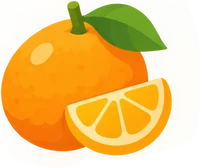
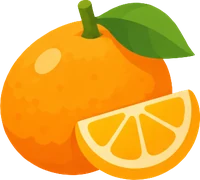
치복 타운 #20: 사냥터 보스 화면 등장·타이머 · 빙고 화면 크게 · 작물 자랑 · 확대 4배 · 작물 그림 번짐 지움

diff --git a/game.html b/game.html
@@ -237,7 +237,7 @@ h3.sub { margin: 14px 0 6px; font-size: calc(15px * var(--fs)); }
 .legendpop .fpic.big { animation: lpBob 1.6s ease-in-out infinite; filter: drop-shadow(0 0 18px rgba(255,190,60,.85)); } @keyframes lpBob { 50% { transform: translateY(-8px) rotate(-3deg); } }
 .legendpop .btn { margin-top: 10px; min-width: 160px; }
 #modal .legendpop h3, #modal .legendpop p { text-align: center; justify-content: center; width: 100%; } #modal .legendpop .fpic.big { display: block; margin-left: auto; margin-right: auto; } #modal .legendpop .btn { display: block; margin-left: auto; margin-right: auto; }
-#fbagList, #cbagList { grid-template-columns: repeat(auto-fill, minmax(70px, 1fr)); gap: 5px; } #fbagList .fcard, #cbagList .fcard { min-height: 0; cursor: pointer; padding: 6px 2px 4px; } #fbagList .fpic, #cbagList .fpic { width: 48px; height: 34px; } #cbagList .fcard { cursor: default; }
+#fbagList, #cbagList { grid-template-columns: repeat(auto-fill, minmax(70px, 1fr)); gap: 5px; } #fbagList .fcard, #cbagList .fcard { min-height: 0; cursor: pointer; padding: 6px 2px 4px; } #fbagList .fpic, #cbagList .fpic { width: 48px; height: 34px; }
 /* 캐릭터창 칭호 줄: 뱃지 + 칭호 가운데 (2026-11-20) */
 .meTitleRow { justify-content: center; align-items: center; gap: 6px; } .meBadge { width: 30px; height: 30px; cursor: pointer; flex: none; } .meBadge[hidden] { display: none; }
 /* 도감 센터 (2026-11-20) */
@@ -905,6 +905,31 @@ body.bingoing .raidbox { width: min(220px, calc(40% - 12px)); }
   .bg-board { grid-template-columns: repeat(5, 1fr); gap: 4px; }
   .bg-cell { height: min(11.5vw, 50px); font-size: 18px; }
   .bg-go { width: auto; height: 46px; }
+}
+/* 2026-11-21 빙고 UI 크게 · 가운데로 모음 (사용자 요청: 배경·캐릭터가 가려져도 괜찮음) */
+.bgpanel { display: flex; flex-direction: column; align-items: center; justify-content: center; gap: 16px; padding: 70px 14px 16px; background: rgba(18,12,8,.28); }
+.bgpanel > .bg-calls, .bgpanel > .bg-me { position: static; transform: none; }
+.bgpanel > .bg-calls { width: min(820px, calc(100% - 540px)); max-width: none; min-width: 520px; min-height: 112px; padding: 12px 20px; gap: 16px; border-width: 3px; border-radius: 22px; }
+.bgpanel .bgc-wait { font-size: 21px; }
+.bgpanel .bgc-new { width: 92px; height: 92px; border-width: 4px; } .bgpanel .bgc-new b { font-size: 46px; } .bgpanel .bgc-new small { top: -12px; font-size: 13px; padding: 1px 8px; }
+.bgpanel .bgc-old { gap: 7px; } .bgpanel .bgc-old span { width: 46px; height: 46px; font-size: 20px; border-width: 2.5px; }
+.bgpanel > .bg-me { padding: 16px; gap: 16px; border-width: 3px; border-radius: 24px; }
+.bgpanel .bg-board { grid-template-columns: repeat(5, min(10vh, 96px)); gap: 8px; }
+.bgpanel .bg-cell { height: min(10vh, 96px); font-size: min(4.6vh, 40px); border-radius: 14px; border-width: 2.5px; }
+.bgpanel .bg-cell.on::after { inset: 9px; border-width: 5px; }
+.bgpanel .bg-go { width: 150px; font-size: 34px; border-radius: 18px; } .bgpanel .bg-go.done { font-size: 24px; }
+.bgpanel > .bg-rank { width: 260px; max-height: calc(100% - 80px); top: 70px; padding: 10px 12px; }
+.bgpanel .bg-rank h4 { font-size: 18px; } .bgpanel .bg-rank li { font-size: 16px; padding: 6px 8px; grid-template-columns: 40px 1fr auto; } .bgpanel .bg-rank p { font-size: 14.5px; }
+@media (max-width: 760px) {
+  .bgpanel { justify-content: flex-start; gap: 10px; padding: var(--bgtop, 160px) 8px 100px; background: rgba(18,12,8,.22); }   /* 아래 100px = 아래 정보창 */
+  .bgpanel > .bg-calls { width: 100%; min-width: 0; min-height: 0; padding: 8px 12px; gap: 10px; border-radius: 16px; }
+  .bgpanel .bgc-new { width: 64px; height: 64px; } .bgpanel .bgc-new b { font-size: 31px; }
+  .bgpanel .bgc-old span { width: 34px; height: 34px; font-size: 15px; } .bgpanel .bgc-old span:nth-child(n+6) { display: none; }
+  .bgpanel > .bg-me { width: 100%; flex-direction: column; padding: 10px; gap: 10px; margin-top: auto; margin-bottom: auto; }
+  .bgpanel .bg-board { grid-template-columns: repeat(5, 1fr); gap: 6px; }
+  .bgpanel .bg-cell { height: min(16vw, 13vh, 76px); font-size: min(7.5vw, 30px); }
+  .bgpanel .bg-go { width: auto; height: 62px; font-size: 28px; }
+  .bgpanel > .bg-rank { top: 62px; width: min(170px, 44%); } .bgpanel .bg-rank h4 { font-size: 14px; } .bgpanel .bg-rank li { font-size: 13.5px; grid-template-columns: 30px 1fr auto; }
 }
 .raidbox { position: absolute; top: 62px; left: 12px; width: min(250px, calc(58% - 12px)); background: rgba(38,24,24,.94); color: #fff; border: 2px solid var(--ink); border-radius: 14px; padding: 8px 12px; z-index: 6; box-shadow: var(--shadow); }
 .raidbox .rb-top { display: flex; flex-wrap: wrap; justify-content: space-between; align-items: center; gap: 6px 8px; font-size: calc(14px * var(--fs)); }
@@ -4842,9 +4867,28 @@ async function huntDie() {
   try { took(await api('/api/hunt/leave', { died: true })); }
   catch (x) { toast(x.message); if (HT) { HT.dying = false; me.hp = 1; } }
 }
-async function huntSync() {
-  if (SV.on || !HT || HT.dying || huntBusy || S.away || document.visibilityState === 'hidden') return;
+async function huntSync(force) {
+  if (SV.on || !HT || HT.dying || huntBusy || S.away || (!force && document.visibilityState === 'hidden')) return;
   try { took(await api('/api/hunt/sync', {})); } catch (x) { if (x.status === 401) location.reload(); }
+}
+// 2026-11-21 사냥터 보스를 화면에 등장시킴. 이기고 지는 건 서버 계산(hunt.js) 그대로이고, 화면 보스는 그 결과를 보여 주는 역할
+// 체력은 내 초당 피해 약 10초어치로 줄여서 곧 쓰러짐. 서버가 '피함'이면 사라지고, '이김'이면 끝까지 싸워 쓰러뜨림
+function bossAppear() {
+  if (!HT || HT.mons.some(m => m.boss && !m.dead) || performance.now() - (HT.bossT || -1e9) < 30e3) return;   // 30초 안에 또 부르면 무시 (서버 정산이 조금 늦어도 두 번 안 나오게)
+  HT.bossT = performance.now();
+  spawnMon(true); const m = HT.mons[HT.mons.length - 1], hp = Math.max(1, Math.min(m.d.hp, Math.round(raidDps(derive()) * 10)));
+  m.d = { ...m.d, hp }; m.hp = hp; m.aggro = true; m.wait = 0;
+  const x = Math.max(2.5 * T, Math.min((HW - 2.5) * T, me.x + (me.dir < 0 ? -1 : 1) * 4 * T)), y = Math.max(2.5 * T, Math.min((HH - 2.5) * T, me.y));
+  m.x = m.wx = x; m.y = m.wy = y; HT.target = m;
+  fxRing(x, y - 20, '#ffb020', 80, .6); fxBurst(x, y - 20, '#ffd45a', 30, 260, 4); fxShake(10); sfx('boom');
+  floatText(x, y - 70 * (m.d.s || 1), `👑 ${m.d.n} 등장!`, '#ffd45a', 20, 1.6, true); toast(`👑 보스 ${m.d.n} 등장!`);
+}
+function bossResult(h) {   // 서버 정산 결과를 화면 보스에 반영
+  const m = HT?.mons.find(o => o.boss && !o.dead); if (!m) return;
+  if (h.bossSkip?.length && !h.bosses?.length) {   // 너무 강해서 피함 → 보스가 연기와 함께 사라짐
+    fxBurst(m.x, m.y - 20, '#9aa3ad', 26, 180, 4, -40); floatText(m.x, m.y - 60, '💨 피했어요', '#cfd6de', 17, 1.3, true);
+    HT.mons.splice(HT.mons.indexOf(m), 1); if (HT.target === m) HT.target = null;
+  } else if (h.bosses?.length) { m.won = h.bosses[0]; return true; }   // 이김 → 화면 보스를 쓰러뜨릴 때 알림
 }
 function spawnMon(boss) {
   const d = boss ? HT.f.boss : MONS[pick(HT.f.mons)];
@@ -4976,7 +5020,7 @@ function updateHunt(dt) {
   // 물약 자동
   HT.potCD -= dt; if (me.hp <= D.maxHp * me.potAt / 100 && HT.potCD <= 0) usePotion(D);
   for (const f of HT.floats) f.t += dt; HT.floats = HT.floats.filter(f => f.t < f.life);
-  if (me.hp <= 0 && !HT.dying) huntDie();
+  if (me.hp <= 0 && !HT.dying) { if (HT.mons.some(m => m.boss && !m.dead)) me.hp = 1; else huntDie(); }   // 2026-11-21 화면 보스와 싸우는 동안은 화면에서 쓰러지지 않음 (진짜 결과는 서버)
 }
 // 근접: 앞으로 살짝 튀어나가며 베기
 function hitMon(m, D) { me.swing = .18; me.lunge = .12; const h = rollHit(D, m); applyHit(m, h, D, 'melee'); cleaveAround(m, h.dmg * (D.cleave || 0), D); }
@@ -5294,11 +5338,12 @@ function hitMe(m, D) {
 }
 function killMon(m, D) {   // 보여 주기용: 진짜 경험치·골드·장비는 서버가 계산해서 30초마다 알려 줌
   m.dead = true; m.deadT = 0; m.hp = 0; m.g = null; if (HT.target === m) HT.target = null;
+  if (m.boss && m.won) { toast(`👑 보스 ${m.won}를 쓰러뜨렸어요!`); sysMsg(`👑 보스 ${m.won} 처치!`); }
   const cy = m.y - 18 * m.d.s;   // 쓰러질 때 펑! (몸 색 조각 + 금빛 반짝이)
   fxBurst(m.x, cy, m.d.c, m.boss ? 40 : 18, m.boss ? 320 : 230, m.boss ? 5 : 4); fxBurst(m.x, cy, '#ffe28a', m.boss ? 20 : 8, 160, 2.4, 120);
   sfx(m.boss ? 'boom' : 'kill'); fxRing(m.x, cy, '#ffffff', m.boss ? 70 : 38, .35); fxShake(m.boss ? 12 : 4.5); HT.freeze = Math.max(HT.freeze, m.boss ? .2 : .07);
   const e = Math.max(1, Math.round(m.d.exp * expPen(me.lv, m.d.lv)));
-  HT.loc.kills++; HT.loc.exp += e; HT.loc.gold += Math.max(1, Math.round(m.d.gold * (1 + D.goldB / 100))); syncBars();
+  if (!m.boss) { HT.loc.kills++; HT.loc.exp += e; HT.loc.gold += Math.max(1, Math.round(m.d.gold * (1 + D.goldB / 100))); syncBars(); }
   floatText(m.x, m.y - 14, `+${e} EXP`, '#ffe9a8', 13, 1.3);
 }
 const expPen = (lv, mlv) => { const d = lv - mlv; return d >= 10 ? Math.max(.2, 1 - (d - 9) * .1) : 1; };
@@ -5444,8 +5489,9 @@ cv.addEventListener('wheel', e => { e.preventDefault(); setZoom(S.zoom * (e.delt
 const zoomKey = () => (innerWidth <= 760 ? 'cbt-zoom-m' : 'cbt-zoom-pc') + (HT ? '-hunt' : '');
 let zoomT = null;
 const raidFit = () => Math.min(W / RW(), H / RH());   // 레이드 맵 전체가 화면에 들어오는 배율
-function setZoom(z) { S.zoom = Math.max(RD ? Math.min(.7, raidFit()) : .7, Math.min(2.6, z)); clearTimeout(zoomT); if (RD) return; zoomT = setTimeout(() => { try { localStorage.setItem(zoomKey(), S.zoom.toFixed(2)); } catch {} }, 300); }
-function loadZoom() { clearTimeout(zoomT); let z = 0; try { z = +localStorage.getItem(zoomKey()); } catch {} S.zoom = z ? Math.max(.7, Math.min(2.6, z)) : HT && innerWidth <= 760 ? 1.15 : 1.6; }
+const ZOOM_MAX = 4;   // 2026-11-21 가장 가까이 2.6 → 4 (사용자 요청)
+function setZoom(z) { S.zoom = Math.max(RD ? Math.min(.7, raidFit()) : .7, Math.min(ZOOM_MAX, z)); clearTimeout(zoomT); if (RD) return; zoomT = setTimeout(() => { try { localStorage.setItem(zoomKey(), S.zoom.toFixed(2)); } catch {} }, 300); }
+function loadZoom() { clearTimeout(zoomT); let z = 0; try { z = +localStorage.getItem(zoomKey()); } catch {} S.zoom = z ? Math.max(.7, Math.min(ZOOM_MAX, z)) : HT && innerWidth <= 760 ? 1.15 : 1.6; }
 loadZoom();
 $('#zIn').onclick = () => setZoom(S.zoom * 1.2); $('#zOut').onclick = () => setZoom(S.zoom / 1.2);
 
@@ -7100,7 +7146,8 @@ function syncBars() {
     $('#hbTime').textContent = `⏱ ${sec >= 3600 ? Math.floor(sec / 3600) + ':' : ''}${String(Math.floor(sec % 3600 / 60)).padStart(2, '0')}:${String(sec % 60).padStart(2, '0')}`;
     const L = HT.loc;   // 서버 정산(30초마다) 뒤에 화면에서 잡은 만큼 더해서 보여 줌
     $('#hbKills').textContent = (v.kills + L.kills).toLocaleString(); $('#hbExp').textContent = `+${(v.exp + L.exp).toLocaleString()}`; $('#hbGold').textContent = `+${(v.gold + L.gold).toLocaleString()}`; $('#hbDrops').textContent = v.drops;
-    $('#hbBoss').textContent = `👑 보스까지 ${Math.floor(b / 60)}:${String(b % 60).padStart(2, '0')}`;
+    $('#hbBoss').textContent = b ? `👑 보스까지 ${Math.floor(b / 60)}:${String(b % 60).padStart(2, '0')}` : `👑 보스와 싸우는 중!`;
+    if (!b && !HT.bossCall && !HT.dying) { HT.bossCall = 1; bossAppear(); setTimeout(() => huntSync(true), 1200); }   // 2026-11-21 보스 시간이 되면 바로 화면에 보스 + 서버 정산
     { const ps = `${me.pots.s}|${me.pots.l}|${me.pots.xl}`, el = $('#hbPots'); if (el.dataset.sig !== ps) { el.dataset.sig = ps; el.innerHTML = [['🥤', me.pots.s], ['🧋', me.pots.l], ['🍹', me.pots.xl]].map(([i, n]) => `<i class="${n ? '' : 'no'}">${i} ${n}</i>`).join(''); iconize(el); } }
   }
 }
@@ -7232,6 +7279,19 @@ const savePotAt = e => { setPotAt(e.target.value); api('/api/pot-at', { v: me.po
 $('#potAt').onchange = savePotAt; $('#hbPot').onchange = savePotAt;
 $('#ptabs').addEventListener('click', e => { const p = e.target.closest('[data-p]')?.dataset.p; if (p) showTab(p); });
 function showTab(p) { $$('#ptabs [data-p]').forEach(b => b.setAttribute('aria-selected', b.dataset.p === p)); $$('.panel-body > .pane').forEach(el => (el.hidden = el.dataset.pane !== p)); }
+// 가방의 작물을 누르면 → 자랑하기 (2026-11-21, 물고기와 같음): 머리 위로 들어 보임 (움직이면 넣음). 다른 사람에게는 실시간 {t:'crop'}
+$('#cbagList').onclick = async e => {
+  const el = e.target.closest('[data-ck]'); if (!el) return;
+  const f = cropBagL().find(x => x.k === +el.dataset.ck), d = f && CROP_BY[f.id]; if (!d) return;
+  const big = isBigCrop(d.id, f.g);
+  if (!await ask(`${d.n} · ${cropW(f.g)} · ${FISH_GRADES[d.grade].n}
+팔면 🪙 ${fmtN(f.p)}`, { title: `${d.i} ${d.n}`, ok: '🙌 자랑하기', no: '닫기' })) return;
+  if (HT || me.room > 0) return toast('마을에서만 자랑할 수 있어요');
+  if (F.busy) return toast('🎣 낚시가 끝난 뒤에 자랑해 보세요');
+  me.path = []; me.moving = false; me.fz = null; me.brag = { crop: { id: d.id, i: d.i, n: d.n, grade: d.grade, g: f.g }, big, t0: performance.now() };
+  say(me, `${cropW(f.g)}짜리 ${d.n}${big ? '(대물)' : ''} 자랑!`, 3600); closePanel(); emote(me, '😎');
+  netSend({ t: 'crop', id: d.id, g: f.g, big });
+};
 // 가방의 물고기를 누르면 → 자랑하기 (2026-11-20): 그 자리에서 머리 위로 들어 보임 (움직이면 넣음)
 $('#fbagList').onclick = async e => {
   const el = e.target.closest('[data-fk]'); if (!el) return;
@@ -7340,7 +7400,8 @@ function took(j) {
   applyMe(j.me, !(HT && !j.me.char.hunt));   // 버튼 응답으로 순간이동하지 않게. 사냥에서 돌아올 때만 서버 위치로
   const h = j.hunt, srv = j.me.char.hunt;
   if (h && inTown) {
-    if (h.bosses?.length) { toast(`👑 보스 ${h.bosses[0]}를 쓰러뜨렸어요!`); sysMsg(`👑 보스 ${h.bosses.join(', ')} 처치!`); }
+    const bossLater = (h.bosses?.length || h.bossSkip?.length) && bossResult(h);
+    if (h.bosses?.length && !bossLater) { toast(`👑 보스 ${h.bosses[0]}를 쓰러뜨렸어요!`); sysMsg(`👑 보스 ${h.bosses.join(', ')} 처치!`); }
     if (h.bossSkip?.length) sysMsg(`👑 보스 ${h.bossSkip[0]}가 너무 강해서 피했어요 (손해 없음 · 현황판 '강한 보스도 싸우기'를 켜면 싸워요)`);
     for (const it of h.drops || []) if (it.g && ['epic', 'legend', 'myth'].includes(it.g)) { toast(`✨ ${GRADES[it.g].n} 장비! ${itemName(it)}`); sysMsg(`✨ ${GRADES[it.g].n} 장비 획득: ${itemName(it)}`); }
     if (HT && h.drops?.length) h.drops.slice(0, 3).forEach((it, i) => floatText(me.x + (i - 1) * 26, me.y - 84 - i * 10, `${itemIcon(it)} ${GRADES[it.g].n}`, it.g === 'normal' ? '#e6ebf2' : GRADES[it.g].c, 14, 1.8));
@@ -7360,7 +7421,7 @@ function took(j) {
   if (inTown) {
     if (srv && !HT) enterHunt(srv);
     else if (!srv && HT) exitHuntView();
-    else if (srv && HT) { HT.srv = srv; HT.loc = { kills: 0, exp: 0, gold: 0 }; HT.bossAt = performance.now() + (srv.boss - srv.t) * 1000; }
+    else if (srv && HT) { HT.srv = srv; HT.loc = { kills: 0, exp: 0, gold: 0 }; HT.bossAt = performance.now() + Math.max(1, srv.boss - srv.t) * 1000; HT.bossCall = 0; }
     for (const id of j.newTitles || []) { const x = titleOf(id); toast(`🏷 새 칭호 「${x.n}」!`); sysMsg(`🏷 새 칭호를 얻었어요: 「${x.n}」 · ${fxText(x.fx) || '효과 없음'} · 캐릭터창의 칭호를 눌러 달 수 있어요`); emote(me, '🎉'); }
     if (j.bonus) { toast(`🎁 오늘 첫 접속 보너스 🪙 ${j.bonus.toLocaleString()}`); sysMsg(`🎁 오늘 첫 접속 보너스: 골드 ${j.bonus.toLocaleString()} (레벨 × 20) · 📋 소식판에서 오늘 의뢰를 확인해 보세요!`); setTimeout(() => { if (modal.hidden && !guideOn()) openNews('daily'); }, 900); }
     if (j.daily?.length) tookDaily(j.daily);
@@ -8098,7 +8159,7 @@ function renderWallet() {
   $('#fbagList').innerHTML = fb.length ? [...fb].sort((a, b) => b.p - a.p).map(f => { const d = FISH_BY[f.id] || { n: '?', grade: 'normal' }; return `<button type="button" class="fcard" data-fk="${f.k}" style="--gc:${FISH_GRADES[d.grade].c}">${fishPic(d)}<b>${esc(d.n)}</b><small>${fmtCm(f.len)}</small><em>🪙 ${fmtN(f.p)}</em></button>`; }).join('') : '<p class="muted">비었어요. 물가를 눌러 낚시해 보세요!</p>';
   const cb = L.farm?.bag || [];   // 2026-11-20 작물 가방 (보기만, 팔기는 텃밭 창고에서)
   $('#cbagN').textContent = `${cb.length} / ${FARM.bag} · 텃밭 창고에서 팔아요`;
-  $('#cbagList').innerHTML = cb.length ? [...cb].sort((a, b) => b.p - a.p).map(f => { const d = CROP_BY[f.id] || { n: '?', grade: 'normal' }; return `<div class="fcard" style="--gc:${FISH_GRADES[d.grade].c}">${cropPic(d)}<b>${esc(d.n)}</b><small>${cropW(f.g)}</small><em>🪙 ${fmtN(f.p)}</em></div>`; }).join('') : '<p class="muted">비었어요. 텃밭에서 수확해 보세요!</p>';
+  $('#cbagList').innerHTML = cb.length ? [...cb].sort((a, b) => b.p - a.p).map(f => { const d = CROP_BY[f.id] || { n: '?', grade: 'normal' }; return `<div class="fcard" data-ck="${f.k}" style="--gc:${FISH_GRADES[d.grade].c}">${cropPic(d)}<b>${esc(d.n)}</b><small>${cropW(f.g)}</small><em>🪙 ${fmtN(f.p)}</em></div>`; }).join('') : '<p class="muted">비었어요. 텃밭에서 수확해 보세요!</p>';
   $('#wallet').innerHTML = [['🪙', '골드', me.gold], [RES.wood.i, RES.wood.n, L.res.wood], [RES.stone.i, RES.stone.n, L.res.stone]]
     .map(([i, n, v]) => `<div><span class="wi">${i}</span><small>${n}</small><b>${v.toLocaleString()}</b></div>`).join('');
 }
@@ -9590,7 +9651,7 @@ const GUIDE = () => [
     ['낚시점', '골드로 낚싯대(낚을 확률 · 더 큰 물고기)와 미끼(희귀 · 전설 확률)를 10단계까지 올려요. 한 번 사면 영원히 써요. 도감 탭에서 모든 물고기를 볼 수 있어요.'],
     ['전설 물고기', '낚싯대 Lv6 · 미끼 Lv6부터 나와요. 물고기마다 필요한 낚싯대 단계가 달라요 (최고는 Lv10). 처음 낚으면 그 물고기 전용 칭호를 받아요!'],
     ['낚시왕', '낚시점 → 낚시왕 탭. 부위마다 목표가 달라요 (물고기 수 · 낚시 횟수 · 희귀 · 도감 · 대어 · 전설). 이룬 것부터 받기를 눌러 받아요.'],
-    ['자랑하기', '낚은 물고기는 움직이기 전까지 머리 위로 들고 있어요. 캐릭터창 → 가방에서 물고기를 눌러 🙌 자랑하기도 할 수 있어요.'],
+    ['자랑하기', '낚은 물고기는 움직이기 전까지 머리 위로 들고 있어요. 캐릭터창 → 가방에서 물고기나 작물을 눌러 🙌 자랑하기도 할 수 있어요.'],
     ['장비 올리기 조건', '낚싯대·미끼를 올리려면 골드와 함께 낚시 횟수가 필요해요 (놓친 것도 세요).'],
     ['물고기 그림자', '물속에서 헤엄치는 물고기 그림자 근처로 던지면 좋은 물고기가 잘 나와요. 낚으면 사라지고 다른 곳에 또 나타나요.'],
     ['🏆 낚시 랭킹판', '낚시점 옆 랭킹판에서 제일 비싼 · 제일 큰 · 제일 많이 낚은 사람 순위를 봐요. 🏆 랭킹 창에서도 볼 수 있어요.'],

diff --git a/assets/js/game-updates.js b/assets/js/game-updates.js
@@ -2,6 +2,13 @@
 // 배포할 때마다 맨 위에 하나 추가: { n: 번호, d: '날짜', t: '한 줄 제목', g: [['분류', ['아주 짧게', …]], …] }
 // 2026-11-21 사용자 요청: 줄 앞에 이모지를 붙이지 않고, 비슷한 내용끼리 분류로 묶음 (레이드 · 사냥 · 낚시 · 생활 · 이벤트 · 화면 …)
 export const UPDATES = [
+  { n: 20, d: '2026-11-21', t: '사냥터 보스 등장 · 빙고 화면 크게 · 작물 자랑 · 더 가까이 확대', g: [
+    ['화면', ['마을 · 사냥터를 더 가까이 확대할 수 있어요 (최대 2.6배 → 4배)']],
+    ['사냥', ['보스 시간이 되면 사냥터에 보스가 직접 나타나 싸워요 (예전엔 화면에 안 보이고 결과만 나왔어요)', '보스 타이머가 0초에서 1분쯤 멈춰 있던 문제를 고쳤어요', '너무 강한 보스는 연기와 함께 사라져요 (강한 보스도 싸우기를 켜면 싸워요)']],
+    ['빙고', ['부른 숫자 · 내 빙고판 · 빙고 버튼을 가운데에 크게 보여 줘요']],
+    ['자랑', ['캐릭터창 → 가방에서 작물을 눌러 머리 위로 들고 자랑할 수 있어요']],
+    ['텃밭', ['인삼 · 산삼 · 황금향 · 멜론 · 샤인머스캣 · 송로버섯 · 거대 호박 그림 둘레의 뿌연 얼룩을 지워 테두리가 깔끔해졌어요']],
+  ] },
   { n: 19, d: '2026-11-21', t: '골드 주머니 · 분수가 내 실제 사냥 기준으로', g: [
     ['이벤트', ['골드 주머니가 내가 실제로 사냥할 때 버는 골드 30분어치를 줘요 (사냥 기록이 아직 없으면 예전처럼 레벨로 어림)']],
     ['소원 분수', ['골드 · 경험치도 내 실제 사냥 5분어치로 커졌어요 (무지개는 30분어치)', '그 대신 골드 12% → 3%, 경험치 9.3% → 2.3%로 줄이고, 줄인 몫은 특대 음료(4.3% → 17.3%)와 새 보상 빙고 코인 1개(3%)로']],

diff --git a/game-worker/src/hunt.js b/game-worker/src/hunt.js
@@ -94,7 +94,8 @@ export function settle(c, at, onGap = HUNT.onlineGap) {   // onGap: 100%로 쳐 
   let D = derive(c);
   const st = { hp: Math.min(c.hp, D.maxHp), pots: c.pots, potAt: c.potAt, used: 0, cd: h.cd || {}, sh: 0, bt: 0 };
   let steps = 0, onG = 0, onE = 0, onT = 0;   // 화면을 켜 둔 몫(offLeft가 다 쓰인 뒤)의 골드·경험치·시간 → life.hgr
-  while (sec > 0 && steps++ < MAX_STEPS) {
+  // 2026-11-21 보스 시간이 됐으면 남은 시간이 없어도 바로 보스전 (화면이 보스 시간에 맞춰 정산을 부름. 쓴 시간은 debt로 넘어감)
+  while ((sec > 0 || (h.t >= h.boss && !out.died)) && steps++ < MAX_STEPS) {
     const lv0 = c.lv, isBoss = h.t >= h.boss;
     if (isBoss) {
       h.boss += HUNT.bossEvery;

diff --git a/scripts/img-export/crop-clean.py b/scripts/img-export/crop-clean.py
@@ -1,0 +1,15 @@
+# 2026-11-21 작물 그림 둘레의 옅은 번짐(반투명 얼룩)을 지워 다시 만듦 → 테두리가 깔끔하게
+# 실행: PYTHONUTF8=1 python scripts/img-export/crop-clean.py c31=작물_0030_인삼.png c34=작물_0001_산삼.png
+import os, sys
+import numpy as np
+from PIL import Image
+CD = os.path.join('텍스쳐 템플릿', '내 디자인', '작물'); OUT = os.path.join('assets', 'img', 'crop'); CUT = 110
+for arg in sys.argv[1:]:
+    cid, f = arg.split('=', 1)
+    a = np.asarray(Image.open(os.path.join(CD, f)).convert('RGBA')).copy()
+    al = a[:, :, 3].astype(float)
+    al = np.clip((al - CUT) / (230 - CUT) * 255, 0, 255)   # 옅은 건 지우고, 가장자리는 부드럽게 남김
+    a[:, :, 3] = al.astype(np.uint8); a[al == 0] = 0
+    im = Image.fromarray(a, 'RGBA'); ys, xs = np.where(al > 8); im = im.crop((xs.min(), ys.min(), xs.max() + 1, ys.max() + 1))
+    s = 200 / max(im.size); im = im.resize((max(1, round(im.width * s)), max(1, round(im.height * s))), Image.LANCZOS)
+    im.save(os.path.join(OUT, cid + '.webp'), 'WEBP', quality=88, method=6); print(cid, im.size)

diff --git a/CLAUDE.md b/CLAUDE.md
@@ -942,6 +942,14 @@
 - `huntGoldN(c, 분)`, `huntExpN(c, 분)` (game-rules.js): 기록이 1분(`HUNT_RATE.min`) 넘으면 그 값 × 분, 아니면 예전 `wishGold`·`wishExp`. 골드 주머니 · 분수 골드/경험치/무지개가 씀 (자리 비움 `offlineHuntAway`는 그대로)
 - 분수 `WISH_TABLE`: 골드 3 · 경험치 2.3 · 음료 17.3 · 빙고 코인 1개 `{k:'bgc'}` 3 (나머지 그대로)
 
+- **사냥터 보스 화면 등장** (2026-11-21): 예전엔 보스가 화면에 없고 서버 정산(1분마다)이 계산만 했음 → 타이머가 0초에서 최대 1분 멈췄다가 줄어든 채로 다시 돌았음
+  - 화면: 타이머 0초 → `bossAppear()`(보스를 내 앞에, 체력 = 내 초당 피해 10초어치, 30초에 한 번) + 1.2초 뒤 `huntSync(true)`. 결과 `bossResult`: 피함 → 연기로 사라짐, 이김 → `m.won` → 화면 보스를 쓰러뜨릴 때 알림. 화면 보스가 살아 있으면 화면에서 쓰러지지 않음(체력 1). 보스 처치는 화면 숫자(HT.loc)에 안 더함
+  - 서버 hunt.js `settle`: `h.t >= h.boss`면 남은 시간이 없어도 보스전 (쓴 시간은 debt)
+- 빙고 UI 크게: `/* 2026-11-21 빙고 UI 크게` 블록 (`.bgpanel`이 가운데 세로 정렬, 위에 덮는 규칙)
+- 작물 가방 자랑: `#cbagList` 클릭 → 실시간 `{t:'crop'}` (수확 자랑과 같음)
+- 확대 최대 2.6 → 4배 (`ZOOM_MAX`, game.html `setZoom` 위)
+- 작물 그림 둘레 옅은 번짐 지우기: `scripts/img-export/crop-clean.py c31=작물_0030_인삼.png …` (알파 110 아래는 지움). c28~c34 정리함
+
 ### 다음: 4-2단계
 - 집 안 가구 사기·놓기·옮기기, 도감
 - 다 지은 공동 건설(꽃밭·등대 등)을 지도에 그림으로 보여 주기
